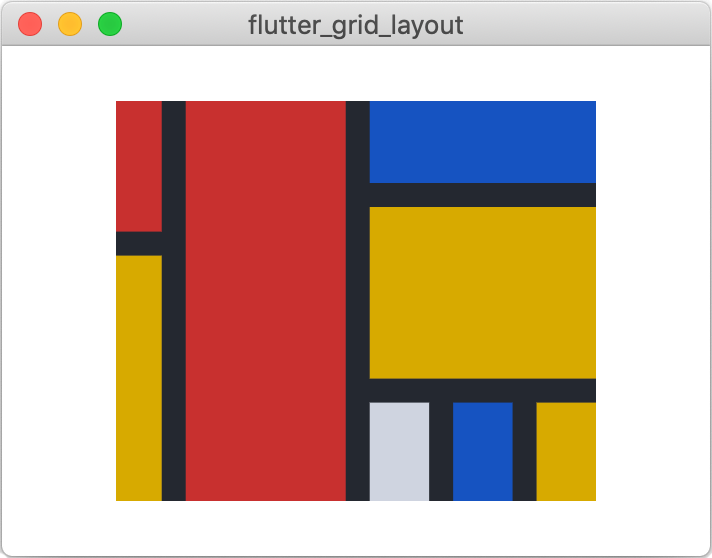
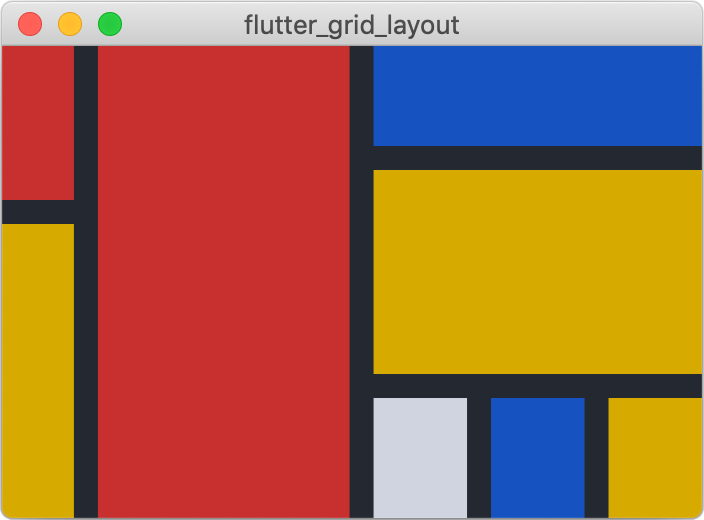
Update README image

diff --git a/example/piet.dart b/example/piet.dart
@@ -48,8 +48,6 @@ class Piet extends StatelessWidget {
   @override
   Widget build(BuildContext context) {
     return Container(
-      width: 240,
-      height: 200,
       color: background,
       child: LayoutGrid(
         columnGap: 12,
